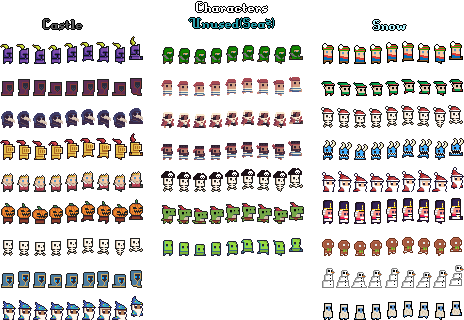
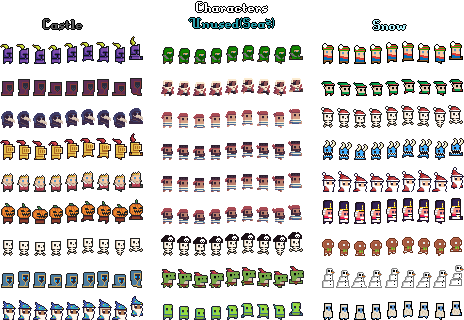
alternate prisoner sprites

diff --git a/src/graphics/ExtraCharacterSet2TileLoader.ts b/src/graphics/ExtraCharacterSet2TileLoader.ts
@@ -10,9 +10,11 @@ const TILE_WIDTH = 16
 // maps to [column, row]
 const CHARACTERS = new Map([
     ["doctor", [0, 2]],
-    ["prisoner1", [1, 1]],
-    ["widdershins", [1, 2]],
+    ["widdershins", [1, 1]],
+    ["prisoner1", [1, 2]],
     ["prisoner2", [1, 3]],
+    ["prisoner3", [1, 4]],
+    ["prisoner4", [1, 5]],
     ["santa", [2, 4]],
 ])
 
